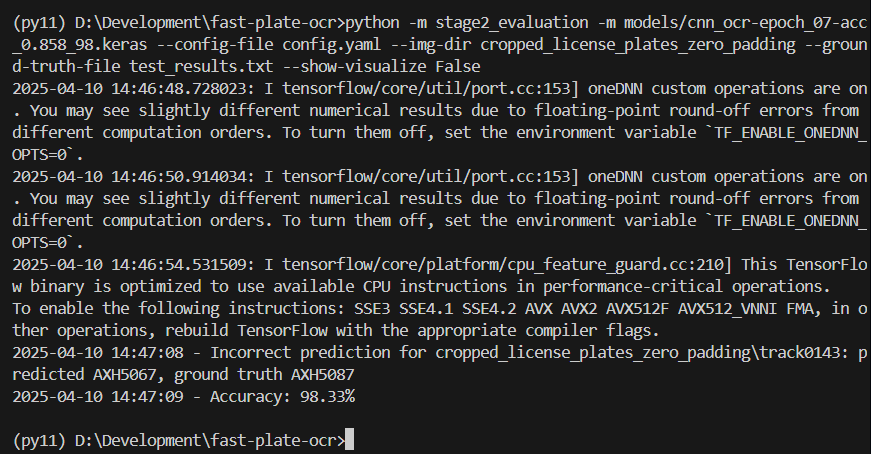
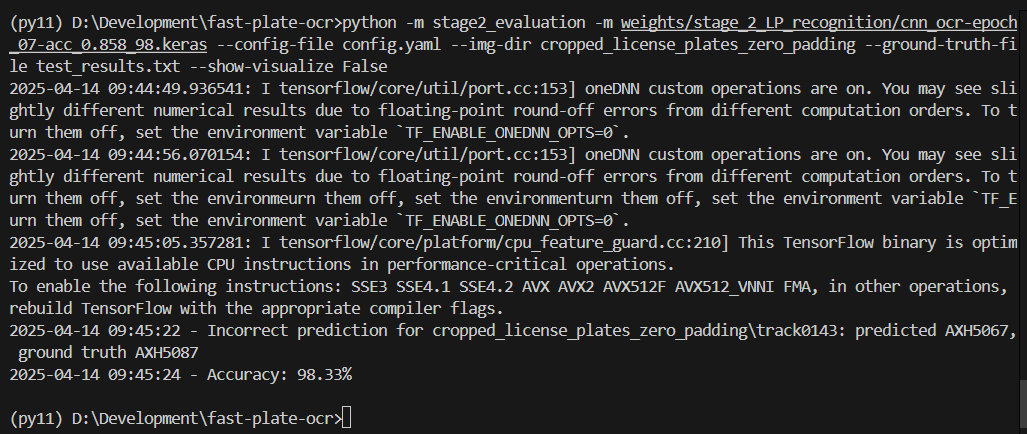
update stage 2 command

diff --git a/README.md b/README.md
@@ -22,7 +22,7 @@ download test_tracks: https://drive.google.com/file/d/1Y1emehE8KL3nzFuwWvTWv5JYc
 
 To re-produce the results for stage 2
 ```
-python -m stage2_evaluation -m models/cnn_ocr-epoch_07-acc_0.858_98.keras --config-file config.yaml --img-dir cropped_license_plates_zero_padding --ground-truth-file test_results.txt --show-visualize False
+python -m stage2_evaluation -m weights/stage_2_LP_recognition/cnn_ocr-epoch_07-acc_0.858_98.keras --config-file config.yaml --img-dir cropped_license_plates_zero_padding --ground-truth-file test_results.txt --show-visualize False
 ```
 
 ![alt text](results/stage_2_LP_recognition/result.png)
